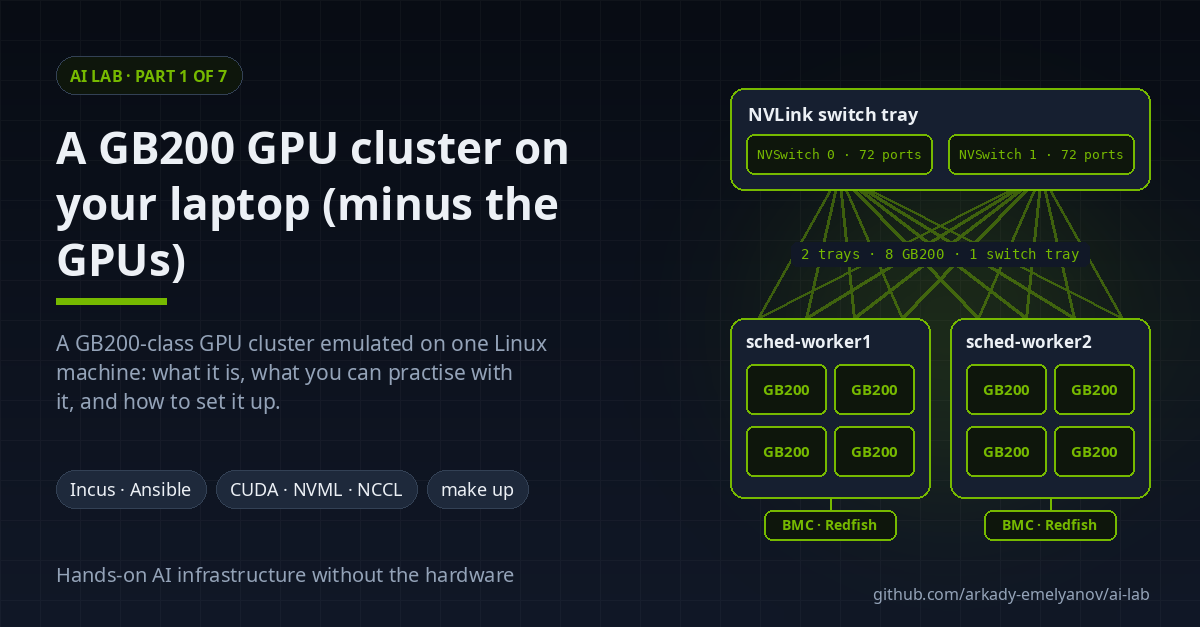
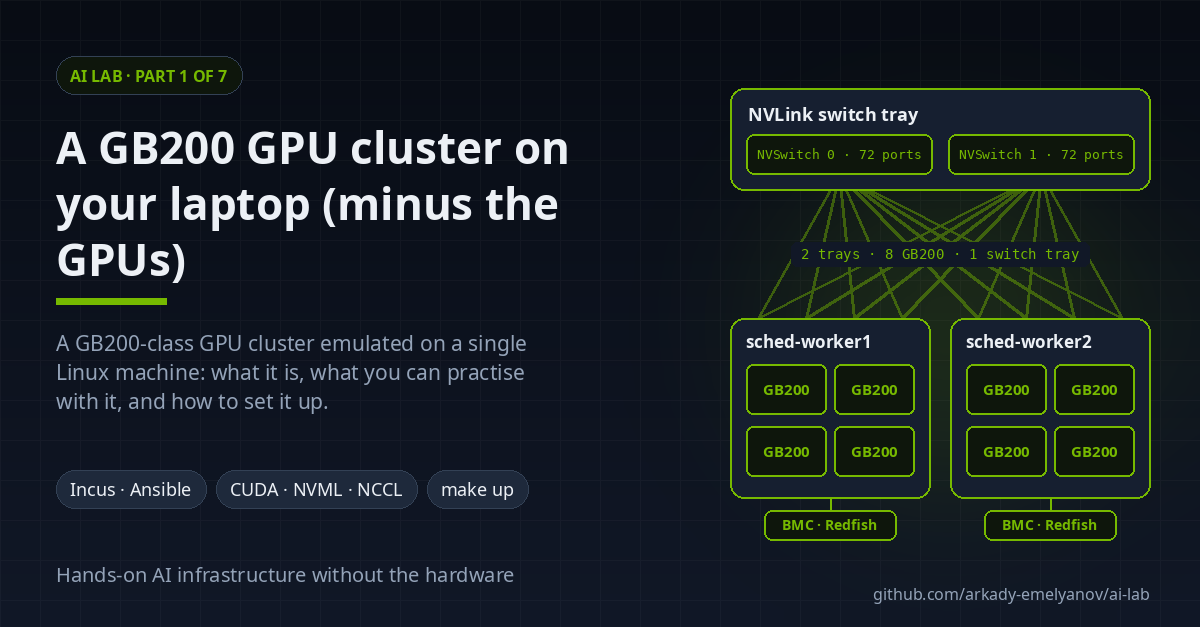
Wording: "a single Linux machine", not "one Linux machine"

Changed region(s): [[0.0308, 0.5152, 0.4625, 0.6667]]

diff --git a/tools/social-cards.py b/tools/social-cards.py
@@ -41,7 +41,7 @@ ALL = {GPUS, SWITCH, LINKS, BMCS}
 
 CARDS = [
     dict(file="index", part=None,
-         headline="A GB200 GPU cluster on one Linux machine, in seven parts",
+         headline="A GB200 GPU cluster on a single Linux machine, in seven parts",
          chips=["Slurm · k3s", "Redfish BMCs", "NVLink", "Prometheus · Grafana"],
          focus=ALL, label="NVL8 domain, emulated"),
     dict(file="01-intro", part=1,

diff --git a/docs/ai-lab/01-intro.md b/docs/ai-lab/01-intro.md
@@ -1,6 +1,6 @@
 ---
 image: "ai-lab/images/social/01-intro.png"
-description: "A GB200-class GPU cluster emulated on one Linux machine: what it is, what you can practise with it, and how to set it up."
+description: "A GB200-class GPU cluster emulated on a single Linux machine: what it is, what you can practise with it, and how to set it up."
 ---
 
 # AI lab, part 1: a GB200 GPU cluster on your laptop (minus the GPUs)
@@ -11,7 +11,7 @@ description: "A GB200-class GPU cluster emulated on one Linux machine: what it i
 
 Most of the work in AI infrastructure isn't the GPUs. It's everything around them: the scheduler that places an 8-GPU job inside one NVLink domain, the BMC you power-cycle a tray through at 3 a.m., the dashboard that shows which user is holding 6 of the 8 GPUs, the runbook for a degraded NVLink. Systems engineers who want to learn this hit a wall quickly: you can't practise on a GB200 rack you don't have, and cloud GPU instances hide exactly the layers you want to touch.
 
-[ai-lab](https://github.com/arkady-emelyanov/ai-lab) is my attempt at a way around that wall. It's a complete GPU cluster that runs on one Linux machine. The GPUs are fake, and everything around them is real.
+[ai-lab](https://github.com/arkady-emelyanov/ai-lab) is my attempt at a way around that wall. It's a complete GPU cluster that runs on a single Linux machine. The GPUs are fake, and everything around them is real.
 
 ## What it is
 

diff --git a/docs/ai-lab/index.md b/docs/ai-lab/index.md
@@ -3,12 +3,12 @@ hide:
   - navigation
   - toc
 image: "ai-lab/images/social/index.png"
-description: "A GPU cluster emulated on one Linux machine for systems engineers without GB200 hardware: setup, Slurm, Kubernetes, BMCs, NVLink, observability and networking."
+description: "A GPU cluster emulated on a single Linux machine for systems engineers without GB200 hardware: setup, Slurm, Kubernetes, BMCs, NVLink, observability and networking."
 ---
 
 # AI lab
 
-[ai-lab](https://github.com/arkady-emelyanov/ai-lab) is a complete GPU cluster that runs on one Linux machine: one NVIDIA GB200-class NVL8 NVLink domain, emulated in Incus containers, with Slurm or Kubernetes, BMCs, an NVLink switch tray, storage and monitoring around it. The GPUs are fake; everything around them is real.
+[ai-lab](https://github.com/arkady-emelyanov/ai-lab) is a complete GPU cluster that runs on a single Linux machine: one NVIDIA GB200-class NVL8 NVLink domain, emulated in Incus containers, with Slurm or Kubernetes, BMCs, an NVLink switch tray, storage and monitoring around it. The GPUs are fake; everything around them is real.
 
 > Independent personal project, not affiliated with or endorsed by NVIDIA. It emulates NVIDIA hardware interfaces in software for research and education.
 

diff --git a/docs/index.md b/docs/index.md
@@ -14,6 +14,6 @@ description: "Hands-on AI infrastructure without the hardware: the AI lab series
 
 -   [![AI lab](ai-lab/images/social/index.png)](ai-lab/index.md)
 
-    **[AI lab](ai-lab/index.md)**: a GB200-class GPU cluster emulated on one Linux machine, for systems engineers who want hands-on time with AI infrastructure without the hardware. Seven parts: setup, Slurm, Kubernetes, BMCs and Redfish, NVLink, observability, networking.
+    **[AI lab](ai-lab/index.md)**: a GB200-class GPU cluster emulated on a single Linux machine, for systems engineers who want hands-on time with AI infrastructure without the hardware. Seven parts: setup, Slurm, Kubernetes, BMCs and Redfish, NVLink, observability, networking.
 
 </div>
